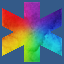
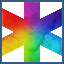
draw wall line for numcomb

diff --git a/game_util/numcomb.h b/game_util/numcomb.h
@@ -8,6 +8,7 @@
 #include <filesystem>
 #include <numeric>
 #include <iostream>
+#include <map>
 
 #include "../utility/html.h"
 
@@ -24,22 +25,17 @@ struct Coordinate
         y_ += c.y_;
         return *this;
     }
+
     friend Coordinate operator+(const Coordinate& _1, const Coordinate& _2)
     {
         Coordinate tmp(_1);
         return tmp += _2;
     }
-    Coordinate& operator-=(const Coordinate& c)
-    {
-        x_ -= c.x_;
-        y_ -= c.y_;
-        return *this;
-    }
-    friend Coordinate operator-(const Coordinate& _1, const Coordinate& _2)
-    {
-        Coordinate tmp(_1);
-        return tmp -= _2;
-    }
+
+    Coordinate operator-() const { return Coordinate{-x_, -y_}; }
+
+    auto operator<=>(const Coordinate&) const = default;
+
     int32_t x_;
     int32_t y_;
 };
@@ -98,6 +94,30 @@ class AreaCard
     std::optional<std::array<int32_t, k_direct_max>> points_;
 };
 
+class Wall
+{
+  public:
+    friend class Comb;
+
+    Wall(Box& box) : box_(box), has_line_{false, false, false} {}
+
+    template <Direct direct>
+    void SetLine() { has_line_.at(static_cast<uint32_t>(direct)) = true; }
+
+    std::string ImageName() const
+    {
+        std::string str = "wall_";
+        for (const bool has_line : has_line_) {
+            str += std::to_string(has_line);
+        }
+        return str;
+    }
+
+  private:
+    Box& box_;
+    std::array<bool, k_direct_max> has_line_;
+};
+
 class Area
 {
   public:
@@ -114,7 +134,7 @@ class Area
 class Comb
 {
   public:
-    Comb(std::string image_path) : image_path_(std::move(image_path)), table_(k_size * 4 + 2, k_size * 2 + 1)
+    Comb(std::string image_path) : image_path_(std::move(image_path)), table_(k_max_row, k_max_column)
     {
         table_.SetTableStyle(" align=\"center\" cellpadding=\"0\" cellspacing=\"0\" ");
 
@@ -123,8 +143,9 @@ class Comb
         static constexpr int32_t k_mid_row = k_size * 2;
         static constexpr int32_t k_mid_col = k_size;
 
+        static const Coordinate zero_coor{k_zero_col - k_mid_col, k_zero_row - k_mid_row};
         Box& zero_box = table_.Get(k_zero_row, k_zero_col);
-        areas_.emplace_back(zero_box, Coordinate{k_zero_col - k_mid_col, k_zero_row - k_mid_row});
+        areas_.emplace_back(zero_box, zero_coor);
 
         for (int32_t col = 0; col < table_.Column(); ++col) {
             for (int32_t row = 0; row < table_.Row(); ++row) {
@@ -138,13 +159,17 @@ class Comb
                     box.SetContent(Image_("num_" + std::to_string(areas_.size())));
                     areas_.emplace_back(box, coor);
                 } else if (is_full_box) {
-                    box.SetContent(Image_("blank"));
+                    const auto [it, succ] = walls_.emplace(coor, Wall(box));
+                    assert(succ);
+                    box.SetContent(Image_(it->second.ImageName()));
                 } else if (box.IsVisable()) {
-                    box.SetContent(Image_("blank_half"));
+                    box.SetContent(Image_("wall_half"));
                 }
             }
         }
 
+        const auto num = walls_.erase(zero_coor);
+        assert(num == 1);
         zero_box.SetContent(Image_("num_0"));
     }
 
@@ -197,6 +222,8 @@ class Comb
 
   private:
     static constexpr uint32_t k_size = 3;
+    static constexpr uint32_t k_max_row = k_size * 4 + 2;
+    static constexpr uint32_t k_max_column = k_size * 2 + 1;
 
     std::string Image_(std::string name) { return "![](file://" + image_path_ + std::move(name) + ".png)"; }
 
@@ -206,33 +233,42 @@ class Comb
         assert(Get_(coordinate).card_.has_value());
         auto point = Get_(coordinate).card_->Point<direct>();
         uint32_t count = 1;
-        const auto check = [&](const Coordinate coor)
+        const auto check = [&](Coordinate& coor, const Coordinate& step)
             {
-                const auto& area = Get_(coor);
-                if (!area.card_.has_value()) { // happens when the area is empty
-                    return false;
+                for (; IsValid_(coor); coor += step) {
+                    ++count;
+                    const auto& area = Get_(coor);
+                    if (!area.card_.has_value()) { // happens when the area is empty
+                        return false;
+                    }
+                    if (!point.has_value()) { // happens when previous card are wild
+                        point = area.card_->Point<direct>();
+                        continue;
+                    }
+                    if (!area.card_->IsMatch<direct>(*point)) {
+                        return false;
+                    }
                 }
-                if (!point.has_value()) { // happens when previous card are wild
-                    point = area.card_->Point<direct>();
-                    return true;
-                }
-                return area.card_->IsMatch<direct>(*point);
+                return true;
             };
 
-        for (auto coor = coordinate + k_direct_step<direct>; IsValid_(coor); coor += k_direct_step<direct>) {
-            if (!check(coor)) {
-                return 0;
-            } else {
-                ++count;
-            }
+        const auto wall_line = [&](Coordinate& coor, const Coordinate& step)
+            {
+                for (auto it = walls_.find(coor); it != walls_.end(); it = walls_.find(coor += step)) {
+                    Wall& wall = it->second;
+                    wall.SetLine<direct>();
+                    wall.box_.SetContent(Image_(wall.ImageName()));
+                }
+            };
+
+        auto head_coor = coordinate + k_direct_step<direct>;
+        auto tail_coor = coordinate + -k_direct_step<direct>;
+        if (!check(head_coor, k_direct_step<direct>) || !check(tail_coor, -k_direct_step<direct>)) {
+            return 0;
         }
-        for (auto coor = coordinate - k_direct_step<direct>; IsValid_(coor); coor -= k_direct_step<direct>) {
-            if (!check(coor)) {
-                return 0;
-            } else {
-                ++count;
-            }
-        }
+
+        wall_line(head_coor, k_direct_step<direct>);
+        wall_line(tail_coor, -k_direct_step<direct>);
 
         // TODO: set around success line
         if (point.has_value()) {
@@ -258,6 +294,7 @@ class Comb
 
     const std::string image_path_;
     std::vector<Area> areas_;
+    std::map<Coordinate, Wall> walls_;
     Table table_;
 };
 

diff --git a/games/numcomb/mygame.cpp b/games/numcomb/mygame.cpp
@@ -31,7 +31,8 @@ struct Player
 
 const std::string GameOption::StatusInfo() const
 {
-    std::string str = "每回合" + std::to_string(GET_VALUE(局时)) + "秒，";
+    std::string str = "每回合" + std::to_string(GET_VALUE(局时)) + "秒，共" +
+        std::to_string(GET_VALUE(回合数)) + "回合，跳过起始非癞子数量" + std::to_string(GET_VALUE(跳过非癞子)) + "，";
     if (GET_VALUE(种子).empty()) {
         str += "未指定种子";
     } else {
@@ -94,6 +95,20 @@ class MainStage : public MainGameStage<RoundStage>
         return players_[pid].score_;
     }
 
+    std::string CombHtml(std::string str)
+    {
+        for (PlayerID pid = 0; pid < players_.size(); ++pid) {
+            str += "\n\n### ";
+            str += PlayerName(pid);
+            str += "（当前积分：";
+            str += std::to_string(players_[pid].score_);
+            str += "）\n\n";
+            str += players_[pid].comb_->ToHtml();
+        }
+        return str;
+    }
+
+
     std::vector<Player> players_;
 
   private:
@@ -112,7 +127,7 @@ class RoundStage : public SubGameStage<>
                 MakeStageCommand("设置数字", &RoundStage::Set_, ArithChecker<uint32_t>(0, 19, "数字")),
                 MakeStageCommand("查看本回合开始时蜂巢情况，可用于图片重发", &RoundStage::Info_, VoidChecker("赛况")))
             , card_(card)
-            , comb_html_(CombHtml_(round, main_stage))
+            , comb_html_(main_stage.CombHtml("## 第" + std::to_string(round) + "回合"))
     {}
 
     virtual void OnStageBegin() override
@@ -167,20 +182,6 @@ class RoundStage : public SubGameStage<>
         sender() << Image(std::string(option().ResourceDir() + card_.ImageName()) + ".png");
     }
 
-    static std::string CombHtml_(const uint64_t round, MainStage& main_stage)
-    {
-        std::string str = "## 第" + std::to_string(round) + "回合";
-        for (PlayerID pid = 0; pid < main_stage.players_.size(); ++pid) {
-            str += "\n\n### ";
-            str += main_stage.PlayerName(pid);
-            str += "（当前积分：";
-            str += std::to_string(main_stage.players_[pid].score_);
-            str += "）\n\n";
-            str += main_stage.players_[pid].comb_->ToHtml();
-        }
-        return str;
-    }
-
     const comb::AreaCard card_;
     const std::string comb_html_;
 };
@@ -200,6 +201,7 @@ MainStage::VariantSubStage MainStage::OnStageBegin()
 MainStage::VariantSubStage MainStage::NextSubStage(RoundStage& sub_stage, const CheckoutReason reason)
 {
     if (round_ == option().GET_VALUE(回合数)) {
+        Boardcast() << Markdown(CombHtml("## 终局"));
         return {};
     }
     return NewStage_();
